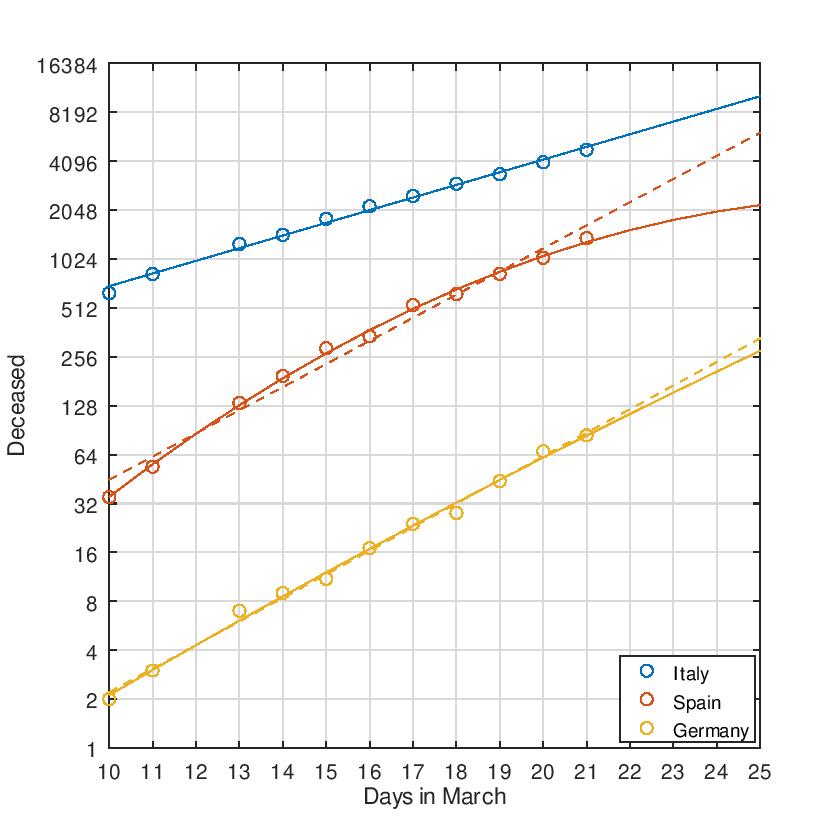
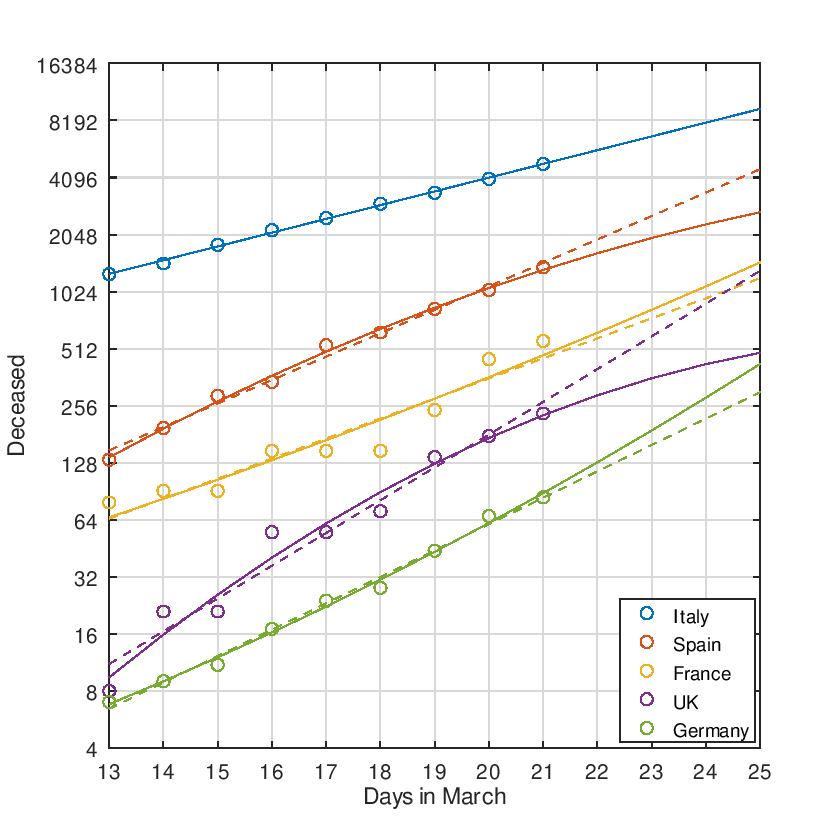
Add UK and France and only use data since 13th of March

diff --git a/plot_data.m b/plot_data.m
@@ -3,10 +3,10 @@ close all;
 clear;
 clc;
 
-days = [10 11 13:21];
-days_predicion = 10:25;
+days = 13:21;
+days_predicion = 13:25;
 
-regions = {'Italy' 'Spain' 'Germany'};
+regions = {'Italy' 'Spain' 'France' 'UK' 'Germany'};
 data = importdata('data.txt');
 num_regions = size(data,1);
 
